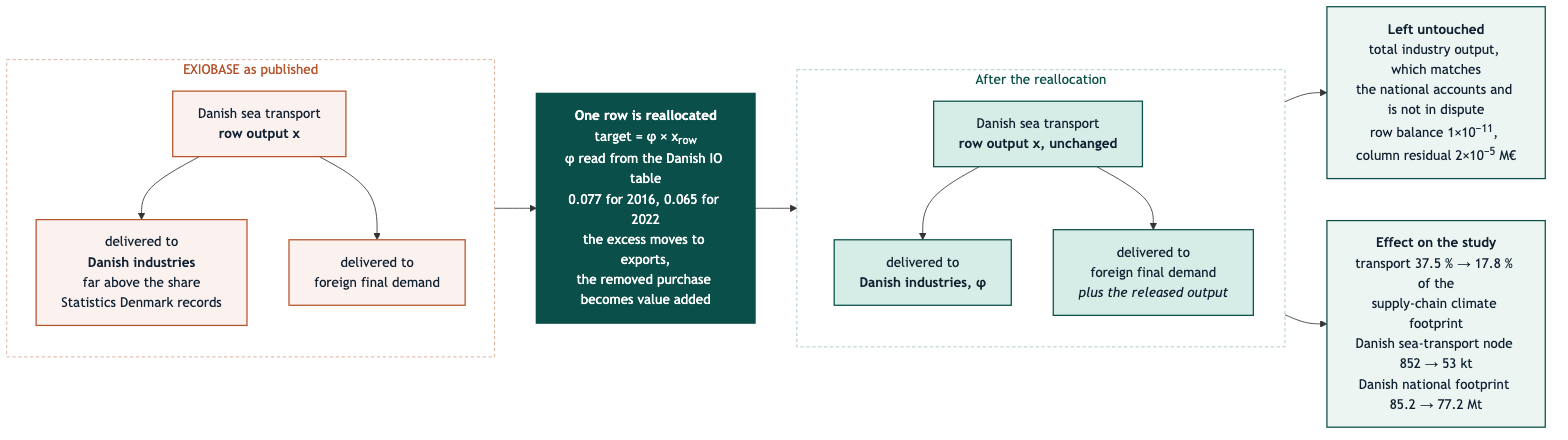
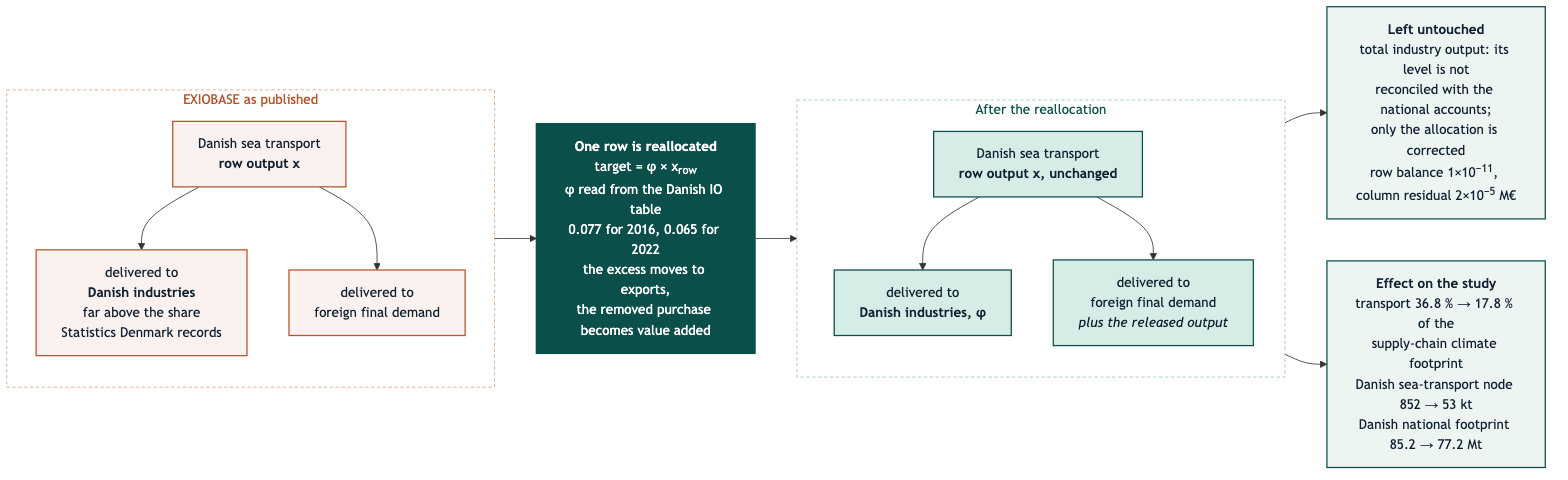
Withdraw the output-level claim from the results narrative, and put the transport ladder on one denominator
The narrative and its diagram still said the sea-transport row's output
"matches the national accounts and is not in dispute", a claim already
withdrawn from the methods and the module: the release diagnostics put the
ratio at 0.226 for 2022. Only the allocation is corrected, and the text now
says so where the reader meets it.

The four-step ladder mixed two denominators - row one was transport's share
of the total, rows two and three its share of the MRIO component - so its
first difference subtracted unlike quantities, and its 37.5 % had no gold
table behind it. Every row is now the producing-node share of the MRIO
component read from hotspot_by_producing_node.csv, the steps recomputed, and
the correction-first order given beside it; the reallocation is the larger
step in either order, which is the claim that survives.

diff --git a/docs/revision/results_2022.md b/docs/revision/results_2022.md
@@ -109,14 +109,19 @@ it is dimensionless: the crowns cancel, the share is applied to EXIOBASE's own r
 total in M€, and no exchange rate enters anywhere. `HC_SHIPPING_PHI` pins the
 value by hand, which is how the published 0.09 is recovered with one variable.
 
-**Total industry output is unchanged**: it is not in dispute; it matches the
-national accounts. Only its *allocation* changes. Danish industries that stop
-buying phantom shipping have that amount credited to value added instead, since
-their own output comes from the national accounts and is also not in dispute.
+**Total industry output is left unchanged.** That is a scope decision, not a
+claim that the level is right: EXIOBASE's Danish sea-transport output is *not*
+reconciled with the national accounts (the release diagnostics give a ratio of
+0.226 for 2022, `09_exiobase_release_diagnostics/dk_block_vs_national_accounts.csv`).
+What this correction fixes is the *allocation* of that output, because the
+allocation decides whether the fleet's emissions land in Danish consumption; the
+level is left to the full national-accounts coupling. Danish industries that stop
+buying phantom shipping have that amount credited to value added, so that each
+column still sums to the output the national accounts give it.
 
 Verified: row balance to 1×10⁻¹¹, maximum column-balance residual 2×10⁻⁵ M€.
 
-**Effect:** transport falls from 37.5 % to **17.8 %** of the health-care climate
+**Effect:** transport falls from 36.8 % to **17.8 %** of the health-care climate
 supply-chain footprint (the 3,906 kt MRIO component; 14.9 % of the 4,675 kt total
 once the domestic bottom-up items are included); the Danish sea-transport node
 falls from 852 kt to **53 kt**; the Danish national footprint falls from 85.2 Mt
@@ -155,8 +160,8 @@ flowchart LR
 
     BEFORE --> OP --> AFTER
 
-    INV["<b>Left untouched</b><br/>total industry output, which matches<br/>the national accounts and is not in dispute<br/>row balance 1×10<sup>−11</sup>, column residual 2×10<sup>−5</sup> M€"]
-    EFF["<b>Effect on the study</b><br/>transport 37.5 % → 17.8 % of the<br/>supply-chain climate footprint<br/>Danish sea-transport node 852 → 53 kt<br/>Danish national footprint 85.2 → 77.2 Mt"]
+    INV["<b>Left untouched</b><br/>total industry output: its level is not<br/>reconciled with the national accounts;<br/>only the allocation is corrected<br/>row balance 1×10<sup>−11</sup>, column residual 2×10<sup>−5</sup> M€"]
+    EFF["<b>Effect on the study</b><br/>transport 36.8 % → 17.8 % of the<br/>supply-chain climate footprint<br/>Danish sea-transport node 852 → 53 kt<br/>Danish national footprint 85.2 → 77.2 Mt"]
 
     AFTER --> INV
     AFTER --> EFF
@@ -468,12 +473,16 @@ A four-step decomposition, each step measured rather than inferred:
 
 | Step | Transport share | Change |
 |:---|:---|:---|
-| 2019, v3.7/2016 background, uncorrected | **47.3 %** | n/a |
-| 2022 demand and v3.8.2 background, still uncorrected | 37.5 % | −9.8 pp |
-| **Danish sea-transport reallocation applied** | 17.8 % | **−19.7 pp** |
-| Bottom-up items included in the denominator | **14.9 %** | −2.9 pp |
+| 2019, 2016 background, uncorrected | **54.1 %** | n/a |
+| 2022 demand and v3.8.2 background, still uncorrected | 36.8 % | -17.2 pp |
+| **Danish sea-transport reallocation applied** | 17.8 % | **-19.0 pp** |
+| Bottom-up items included in the denominator | **14.9 %** | -2.9 pp |
 
-**The reallocation is the whole story.** Year, release, and demand vector together move the
+The first three rows share one denominator, the MRIO supply-chain component; the
+last row switches to the total. Taken in the other order — correction first on the
+2019 data, then the year — the steps are -27.4 pp and -8.9 pp
+(`06_benchmarks_validation/year_comparison_two_step_bridge.csv`). **In either order
+the reallocation is the larger step.** Year, release, and demand vector together move the
 share by less than half of what the data correction does.
 
 <a id="transport-results-paragraph"></a>
